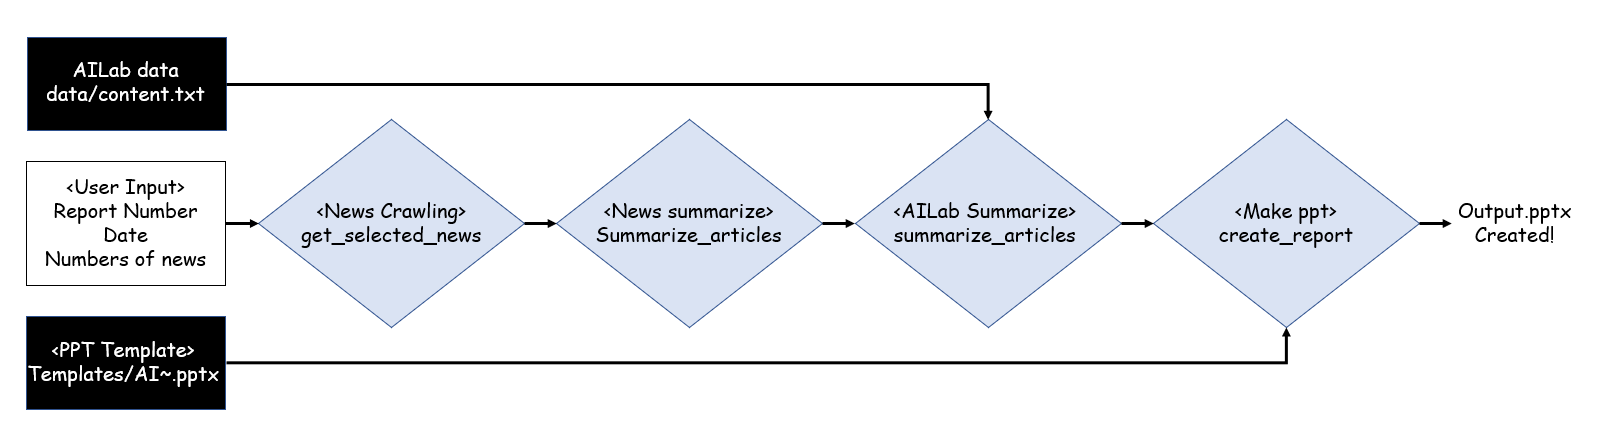
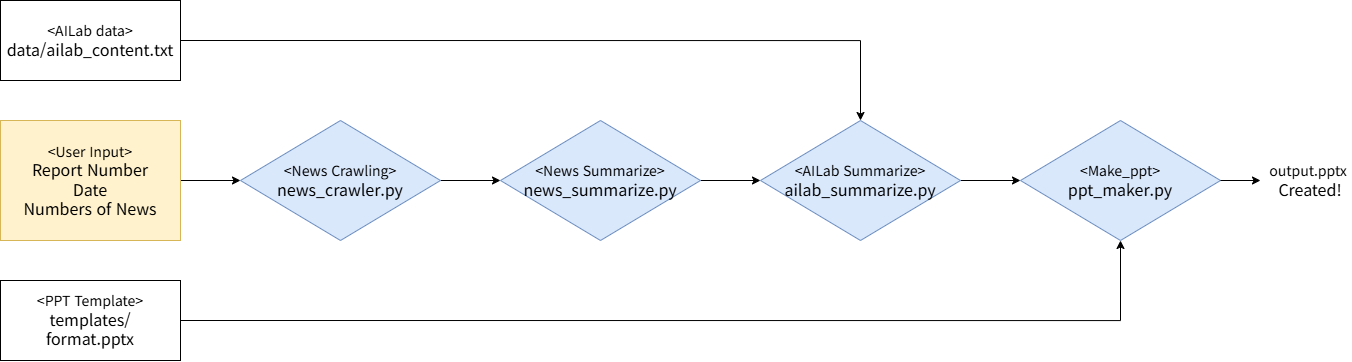
202601161422

diff --git a/src/news_summarize.py b/src/news_summarize.py
@@ -29,36 +29,45 @@ def summarize_article(content: str) -> str:
             {
                 "role": "user",
                 "content": f"""
-<task>
-Analyze the following news article and produce a structured Korean output.
+    <task>
+    Analyze the following news article and produce a structured Korean output.
 
-<requirements>
-1. Please generate exactly one sentence each after [Summary1] and [Summary2].
-2. Write ONE insight sentence for an insurance company use case.
-3. Be concise and factual. Do NOT add information not mentioned or logically implied in the article.
-4. Use professional Korean business tone.
-5. For [Title], Use noun-only endings
-6. For [Summary1], [Summary2], [Insight], end sentences with noun-ending forms like "~임", "~함", "~있음" instead of formal endings like "~입니다", "~합니다", "~있습니다"
-7. In insight, When referring to "our company" in Korean, use "당사".
-8. Please write [Summary1], [Summary2], and [Insight] each within 110 characters
+    <requirements>
+    1. Generate [Summary1], [Summary2], ... [SummaryN] based on the article's content depth.
+      - Do NOT attempt to summarize the entire article.
+      - Focus on high-impact facts, decisions, or implications.
+      - Minimum 2, Maximum 3 summaries
+    2. Write ONE insight sentence for an insurance company use case.
+    3. Be concise and factual. Do NOT add information not mentioned or logically implied in the article.
+    4. Use professional Korean business tone.
+    5. For [Title], use noun-only endings.
+    6. For [Summary], [Insight], end sentences with noun-ending forms like "~임", "~함", "~있음" instead of formal endings like "~입니다", "~합니다", "~있습니다"
+    7. In insight, when referring to "our company" in Korean, use "당사".
+    8. Please write each [Summary] and [Insight] between 100 and 200 characters.
+    9. Avoid redundancy: [Title], [Summary], and [Insight] must each contain unique information without overlapping content or repeating the same expressions.
 
-<output_format>
-[Title]
-Generate a title that summarizes the content of the news.
+    <output_format>
+    [Title]
+    Generate a title that summarizes the content of the news.
 
-[Summary1]
-Describe the new service or product and its key features.
+    [Summary1]
+    First key point (e.g., new service/product and its features)
 
-[Summary2]
-Describe the AI technologies or AI methodologies applied in the service.
+    [Summary2]
+    Second key point (e.g., AI technologies applied) - if applicable
 
-[Insight]
-Suggest a concrete way this service or technology could be applied in our insurance company
-(e.g., underwriting, claims, customer service, sales, risk management).
+    [Summary3]
+    - if applicable
 
-<article>
-{content}
-"""
+    ... (continue as needed)
+
+    [Insight]
+    Suggest a concrete way this service or technology could be applied in our insurance company, along with expected benefits if applicable.
+    (e.g., underwriting, claims, customer service, sales, marketing, risk management).
+
+    <article>
+    {content}
+    """
             }
         ],
         temperature=0.3
@@ -88,9 +97,8 @@ def summarize_articles(df: pd.DataFrame) -> str:
 
 # Test (If needed)
 if __name__ == "__main__":
-    from news_crawler import get_selected_news
-    
-    df = get_selected_news(num_select=4)
+
+    df = pd.read_excel("output/selected_news.xlsx", engine='openpyxl')
     if not df.empty:
         result = summarize_articles(df)
         print("\n" + "="*60)

diff --git a/main.py b/main.py
@@ -2,6 +2,7 @@ from src.news_crawler import get_selected_news
 from src.news_summarize import summarize_articles
 from src.ppt_maker import create_report
 from src.ailab_summarize import ailab_summarized
+from datetime import datetime
 
 def main():
 
@@ -40,9 +41,13 @@ def main():
     print("\n" + "="*60)
     print("📊 단계: PPT 보고서 생성")
     print("="*60)
+
+    timestamp = datetime.now().strftime("%Y%m%d_%H%M%S")
+    output_filename = f"output/AIWeeklyReport_{timestamp}.pptx"
+
     create_report(
         pptx_in="templates/AIWeeklyReport_format.pptx",
-        pptx_out="output/output.pptx",
+        pptx_out=output_filename,
         number=number,
         date=date,
         text1=summarized_text,

diff --git a/src/news_crawler.py b/src/news_crawler.py
@@ -133,7 +133,15 @@ def select_articles(df: pd.DataFrame, num_select: int = 4) -> pd.DataFrame:
     selected_df = df.iloc[[i - 1 for i in selected_indices]].reset_index(drop=True)
     
     print(f"\n✅ 선택 완료!")
-    
+
+    filename = f"output/selected_news.xlsx"
+    selected_df.to_excel(
+        filename,
+        index=False,
+        engine='openpyxl'  # openpyxl은 기본적으로 UTF-8 지원
+    )
+    print(f"📁 Excel 저장 완료: {filename}")
+        
     return selected_df
 
 
